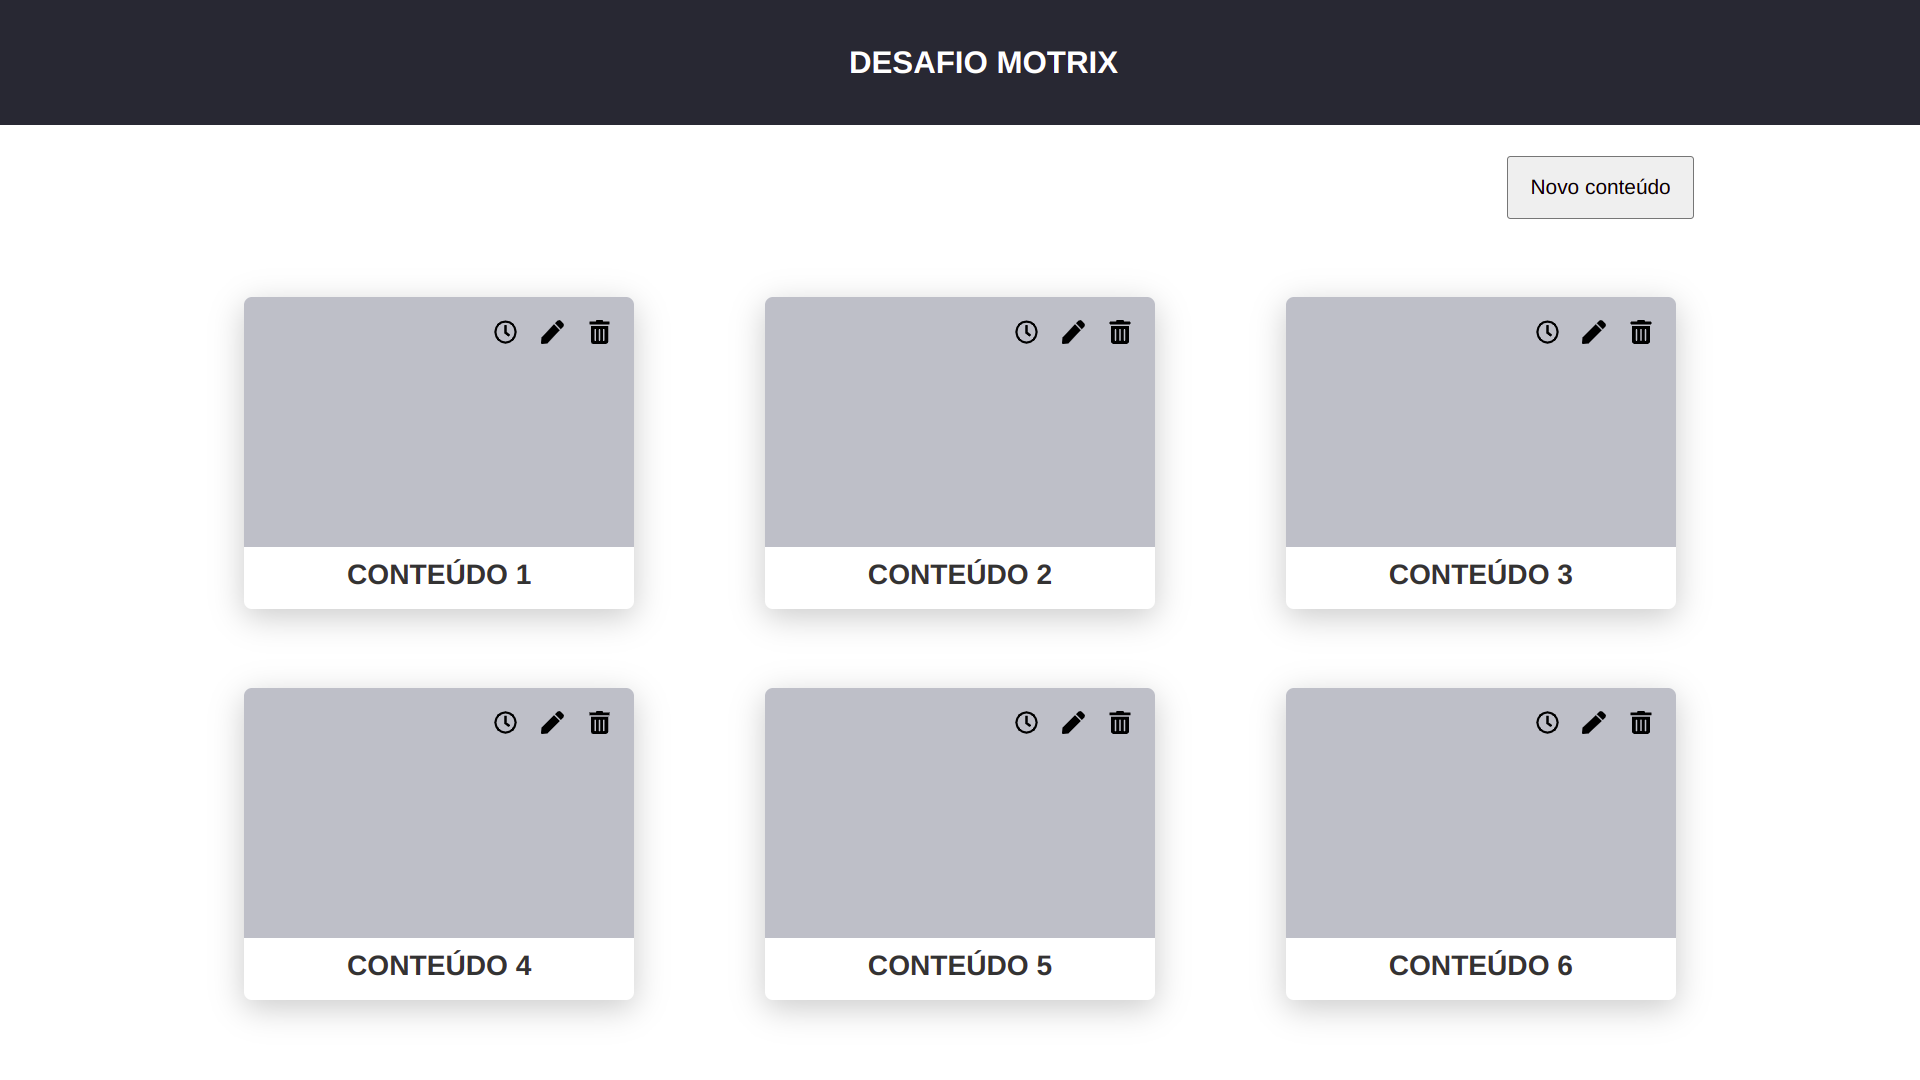
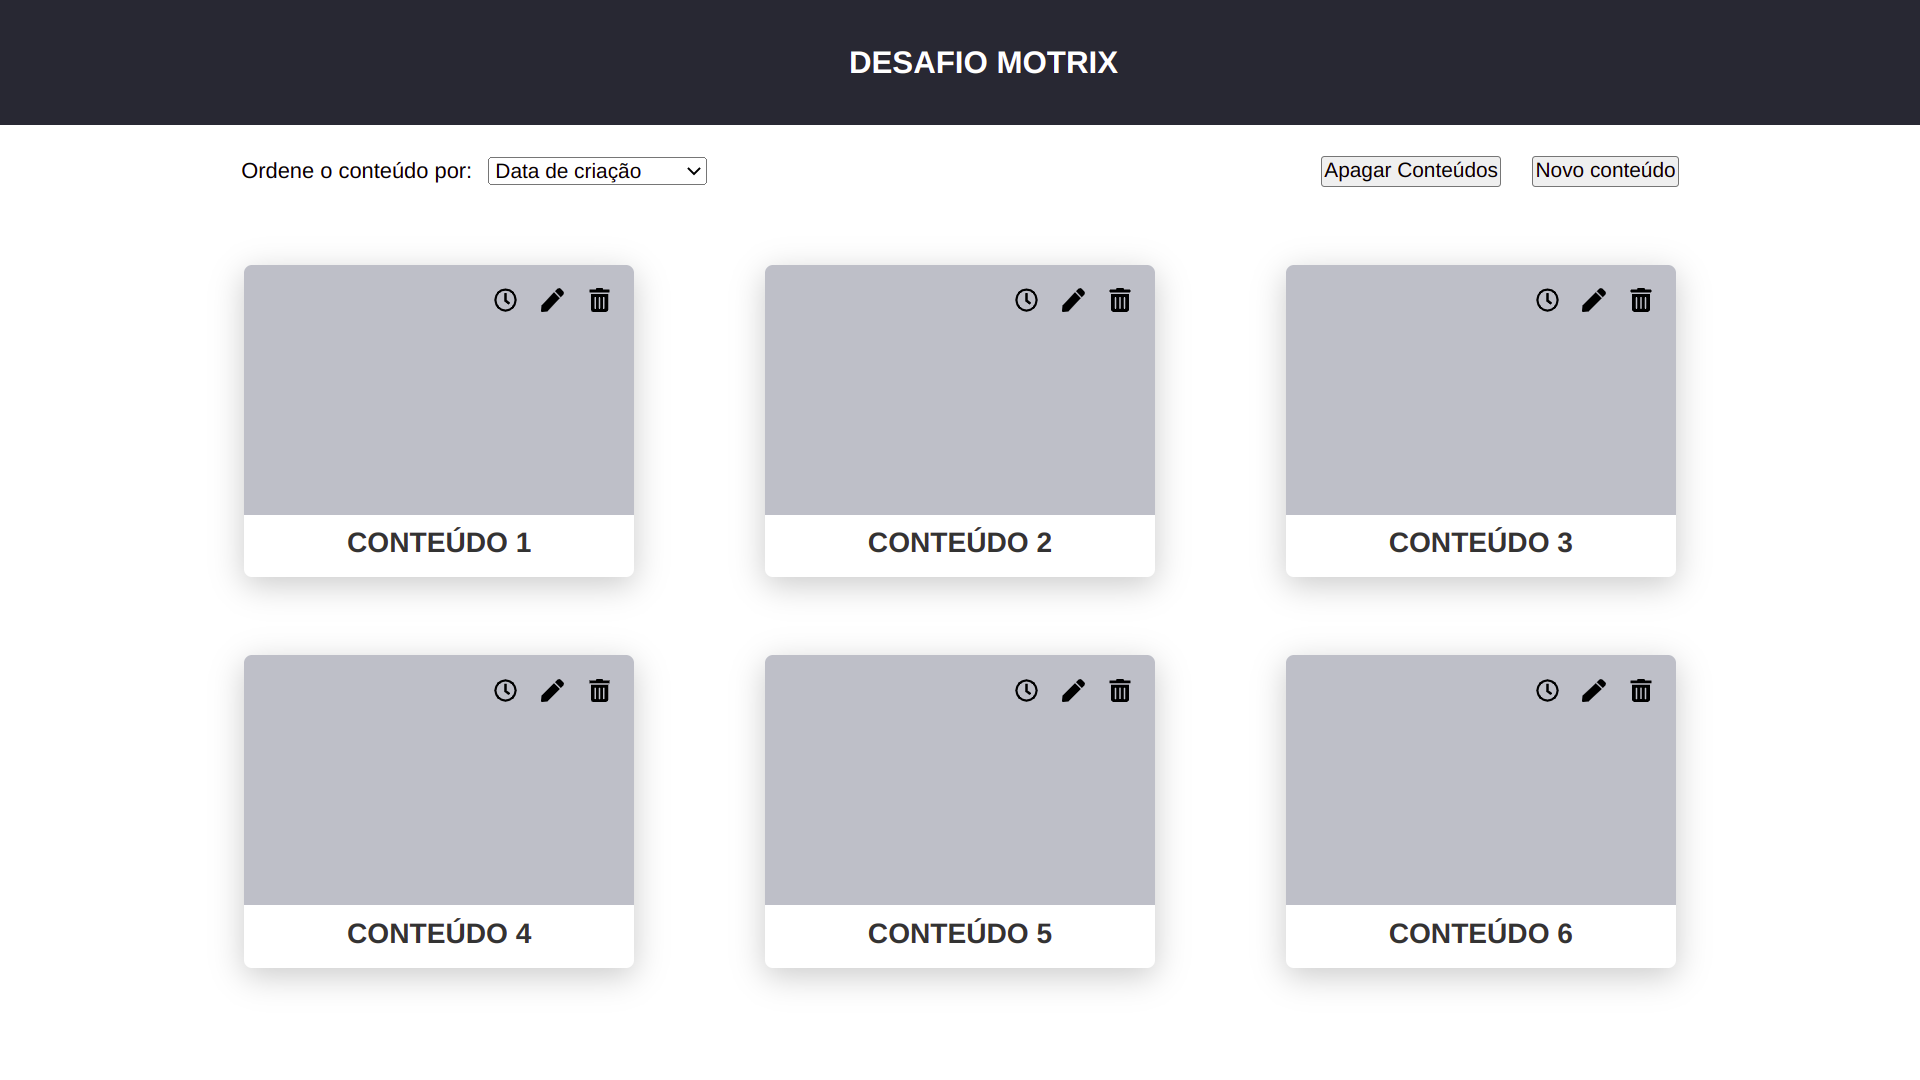
docs: update README.md

diff --git a/README.md b/README.md
@@ -5,7 +5,12 @@ utilizando Node.js e React.
 
 Como requisitos principais, temos:
 - Criar, editar, listar, visualizar e apagar conteúdos;
-- Visualizar o histórico de modificações de cada conteúdo;
+- Visualizar o histórico de modificações de cada conteúdo.
+
+Requisitos bônus:
+- [x] Ordenação de conteúdos na lista por título, data de criação e data de atualização;
+- [x] Operação em lote para apagar múltiplos conteúdos de uma vez a partir da lista;
+- [ ] Paginação de conteúdos na listagem.
 
 ![Preview da aplicação](preview.png)
 
